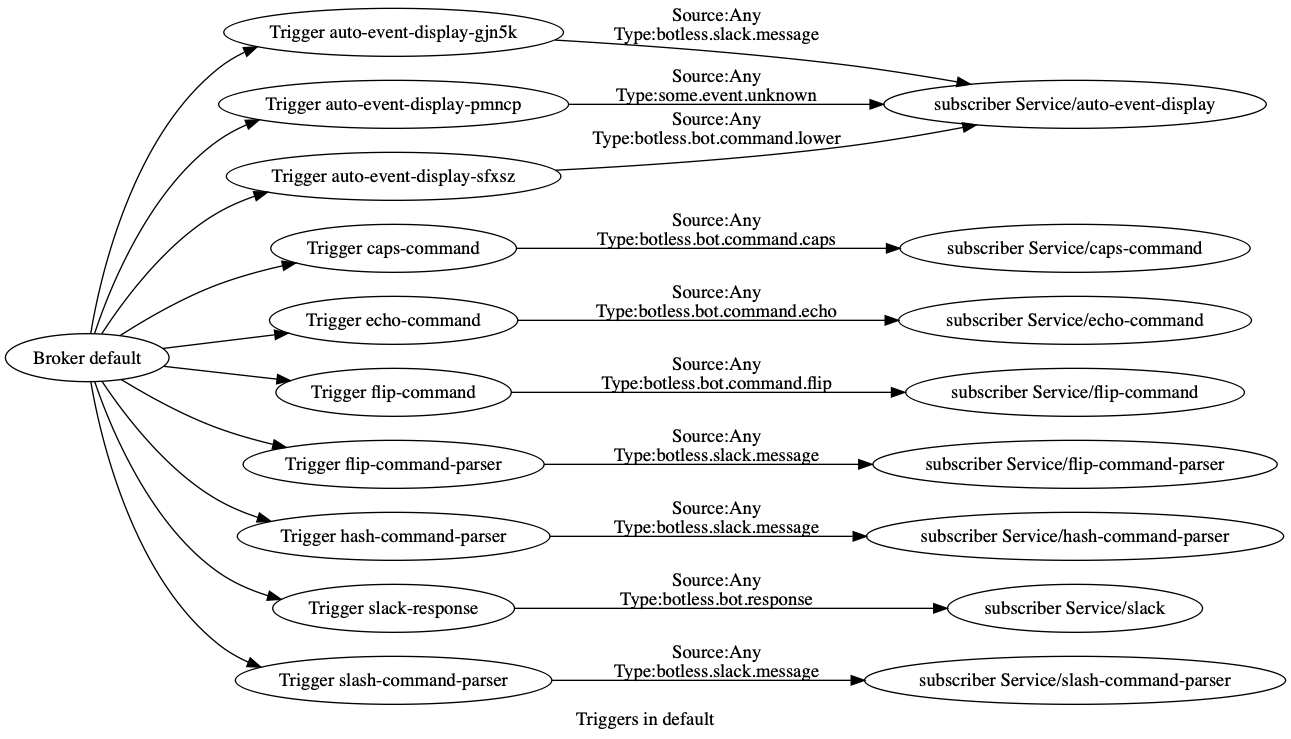
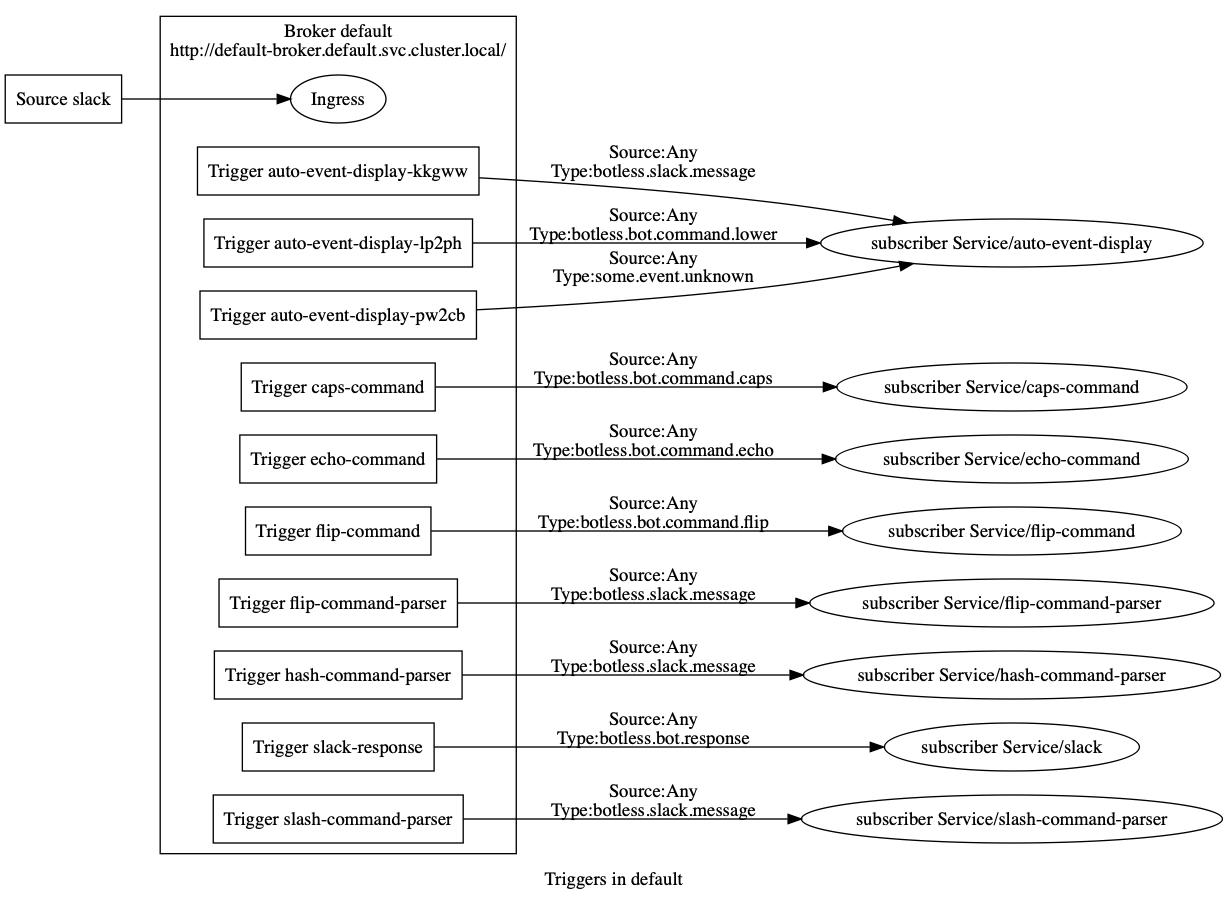
interesting demo so far.

diff --git a/cmd/dot/graph.go b/cmd/dot/graph.go
@@ -3,13 +3,15 @@ package main
 import (
 	"flag"
 	"fmt"
+	eventingv1alpha1 "github.com/knative/eventing/pkg/apis/eventing/v1alpha1"
+	duckv1alpha1 "github.com/n3wscott/knap/pkg/apis/duck/v1alpha1"
 	"github.com/n3wscott/knap/pkg/config"
 	"github.com/n3wscott/knap/pkg/eventing"
 	"github.com/tmc/dot"
+	"k8s.io/apimachinery/pkg/runtime/schema"
 	"k8s.io/client-go/dynamic"
-	"strings"
-
 	"log"
+	"strings"
 
 	// Uncomment the following line to load the gcp plugin (only required to authenticate against GKE clusters).
 	_ "k8s.io/client-go/plugin/pkg/client/auth/gcp"
@@ -33,31 +35,96 @@ func main() {
 	c := eventing.New(dynamicClient)
 
 	g := dot.NewGraph("G")
+	_ = g.Set("shape", "box")
 	_ = g.Set("label", "Triggers in "+ns)
-
-	g.Set("rankdir", "LR")
+	_ = g.Set("rankdir", "LR")
 
 	nodes := make(map[string]*dot.Node)
 
+	subgraphs := make(map[string]*dot.SubGraph)
+
+	dnsToKey := make(map[string]string) // maps domain name to node key
+
+	// load the brokers
+	for _, broker := range c.Brokers(ns) {
+		key := brokerKey(broker.Name)
+		dns := brokerDNS(broker)
+		bn := dot.NewNode("Broker " + dns)
+		bn.Set("shape", "oval")
+		_ = bn.Set("label", "Ingress")
+
+		//bn.Set("style", "invis")
+		//g.AddNode(bn)
+
+		nodes[key] = bn
+		dnsToKey[dns] = key
+
+		bg := dot.NewSubgraph(fmt.Sprintf("cluster_%d", len(subgraphs)))
+		_ = bg.Set("label", fmt.Sprintf("Broker %s\n%s", broker.Name, dns))
+		subgraphs[key] = bg
+		bg.AddNode(bn)
+		g.AddSubgraph(bg)
+	}
+
+	// load the sources
+	for _, source := range c.Sources(ns) {
+		key := gvkKey(source.GroupVersionKind(), source.Name)
+		sn := dot.NewNode("Source " + source.Name)
+		_ = sn.Set("shape", "box")
+		g.AddNode(sn)
+		nodes[key] = sn
+
+		sink := sinkDNS(source)
+
+		if sink != "" {
+			var bn *dot.Node
+			var bk string
+			var ok bool
+			if bk, ok = dnsToKey[sink]; !ok {
+				// TODO: unknown sink.
+				bn = dot.NewNode("UnknownSink " + sink)
+				g.AddNode(bn)
+			} else {
+				if bn, ok = nodes[bk]; !ok {
+					// TODO: unknown broker.
+					bn = dot.NewNode("UnknownSink " + sink)
+					g.AddNode(bn)
+				}
+			}
+
+			e := dot.NewEdge(sn, bn)
+			if sg, ok := subgraphs[bk]; ok {
+				// This is not working.
+				_ = e.Set("lhead", sg.Name())
+			}
+			g.AddEdge(e)
+		}
+	}
+
+	// load the triggers
 	for _, trigger := range c.Triggers(ns) {
-
 		broker := trigger.Spec.Broker
-
-		var bn *dot.Node
-		var ok bool
-		if bn, ok = nodes[brokerKey(broker)]; !ok {
-			bn = dot.NewNode("Broker " + broker)
+		bk := brokerKey(broker)
+		bn, ok := nodes[bk]
+		if !ok {
+			bn = dot.NewNode("UnknownBroker " + broker)
 			g.AddNode(bn)
-			nodes[brokerKey(broker)] = bn
+			nodes[bk] = bn
 		}
 
 		tn := dot.NewNode("Trigger " + trigger.Name)
-		g.AddNode(tn)
+		tn.Set("shape", "box")
+
+		if sg, ok := subgraphs[bk]; ok {
+			sg.AddNode(tn)
+		} else {
+			g.AddNode(tn)
+		}
 		nodes[triggerKey(trigger.Name)] = tn
 
-		e := dot.NewEdge(bn, tn)
+		//e := dot.NewEdge(bn, tn)
 		//_ = e.Set("dir", "none") // "forward" "back" "both" "none"
-		g.AddEdge(e)
+		//g.AddEdge(e)
 
 		label := ""
 		if trigger.Spec.Filter != nil && trigger.Spec.Filter.SourceAndType != nil {
@@ -105,14 +172,24 @@ func main() {
 	fmt.Print(g.String())
 }
 
-/*
+func sinkDNS(source duckv1alpha1.SourceType) string {
+	if source.Status.SinkURI != nil {
+		return fmt.Sprintf("%s/", *(source.Status.SinkURI))
+	}
+	return ""
+}
 
-   ref:
-     apiVersion: serving.knative.dev/v1alpha1
-     kind: Service
-     name: slash-command-parser
+func brokerDNS(broker eventingv1alpha1.Broker) string {
+	return fmt.Sprintf("http://%s/", broker.Status.Address.Hostname)
+}
 
-*/
+func brokerKey(name string) string {
+	return eventingKey("broker", name)
+}
+
+func gvkKey(gvk schema.GroupVersionKind, name string) string {
+	return strings.ToLower(fmt.Sprintf("%s/%s/%s/%s", gvk.Group, gvk.Version, gvk.Kind, name))
+}
 
 func key(group, version, kind, name string) string {
 	return strings.ToLower(fmt.Sprintf("%s/%s/%s/%s", group, version, kind, name))
@@ -132,8 +209,4 @@ func eventingKey(kind, name string) string {
 
 func triggerKey(name string) string {
 	return eventingKey("trigger", name)
-}
-
-func brokerKey(name string) string {
-	return eventingKey("broker", name)
 }

diff --git a/pkg/apis/duck/v1alpha1/zz_generated.deepcopy.go b/pkg/apis/duck/v1alpha1/zz_generated.deepcopy.go
@@ -1,0 +1,73 @@
+// +build !ignore_autogenerated
+
+/*
+Copyright The Kubernetes Authors.
+
+Licensed under the Apache License, Version 2.0 (the "License");
+you may not use this file except in compliance with the License.
+You may obtain a copy of the License at
+
+    http://www.apache.org/licenses/LICENSE-2.0
+
+Unless required by applicable law or agreed to in writing, software
+distributed under the License is distributed on an "AS IS" BASIS,
+WITHOUT WARRANTIES OR CONDITIONS OF ANY KIND, either express or implied.
+See the License for the specific language governing permissions and
+limitations under the License.
+*/
+
+// Code generated by deepcopy-gen. DO NOT EDIT.
+
+package v1alpha1
+
+import (
+	runtime "k8s.io/apimachinery/pkg/runtime"
+)
+
+// DeepCopyInto is an autogenerated deepcopy function, copying the receiver, writing into out. in must be non-nil.
+func (in *SourceStatus) DeepCopyInto(out *SourceStatus) {
+	*out = *in
+	if in.SinkURI != nil {
+		in, out := &in.SinkURI, &out.SinkURI
+		*out = new(string)
+		**out = **in
+	}
+	return
+}
+
+// DeepCopy is an autogenerated deepcopy function, copying the receiver, creating a new SourceStatus.
+func (in *SourceStatus) DeepCopy() *SourceStatus {
+	if in == nil {
+		return nil
+	}
+	out := new(SourceStatus)
+	in.DeepCopyInto(out)
+	return out
+}
+
+// DeepCopyInto is an autogenerated deepcopy function, copying the receiver, writing into out. in must be non-nil.
+func (in *SourceType) DeepCopyInto(out *SourceType) {
+	*out = *in
+	out.TypeMeta = in.TypeMeta
+	in.ObjectMeta.DeepCopyInto(&out.ObjectMeta)
+	in.Status.DeepCopyInto(&out.Status)
+	return
+}
+
+// DeepCopy is an autogenerated deepcopy function, copying the receiver, creating a new SourceType.
+func (in *SourceType) DeepCopy() *SourceType {
+	if in == nil {
+		return nil
+	}
+	out := new(SourceType)
+	in.DeepCopyInto(out)
+	return out
+}
+
+// DeepCopyObject is an autogenerated deepcopy function, copying the receiver, creating a new runtime.Object.
+func (in *SourceType) DeepCopyObject() runtime.Object {
+	if c := in.DeepCopy(); c != nil {
+		return c
+	}
+	return nil
+}

diff --git a/pkg/eventing/eventing.go b/pkg/eventing/eventing.go
@@ -9,7 +9,7 @@ import (
 	"k8s.io/apimachinery/pkg/runtime/schema"
 	"k8s.io/client-go/dynamic"
 
-	apiextensions "k8s.io/apiextensions-apiserver/pkg/apis/apiextensions"
+	"k8s.io/apiextensions-apiserver/pkg/apis/apiextensions"
 
 	eventingv1alpha1 "github.com/knative/eventing/pkg/apis/eventing/v1alpha1"
 	duckv1alpha1 "github.com/n3wscott/knap/pkg/apis/duck/v1alpha1"
@@ -72,27 +72,30 @@ func crdsToGVR(crds []apiextensions.CustomResourceDefinition) []schema.GroupVers
 	return gvrs
 }
 
-func (c *Client) Sources(namespace string) []duckv1alpha1.Source {
+func (c *Client) Sources(namespace string) []duckv1alpha1.SourceType {
 
 	gvrs := crdsToGVR(c.SourceCRDs())
 
+	all := make([]duckv1alpha1.SourceType, 0)
+
 	for _, gvr := range gvrs {
 
-		like := duckv1alpha1.Source{}
+		like := duckv1alpha1.SourceType{}
 
 		list, err := c.dc.Resource(gvr).Namespace(namespace).List(metav1.ListOptions{})
 		if err != nil {
-			log.Fatalf("Failed to List Triggers, %v", err)
+			log.Printf("Failed to List %s, %v", gvr.String(), err)
+			continue
 		}
 
-		all := make([]duckv1alpha1.Source, len(list.Items))
-
-		for i, item := range list.Items {
+		for _, item := range list.Items {
 			obj := like.DeepCopy()
 			if err = runtime.DefaultUnstructuredConverter.FromUnstructured(item.Object, obj); err != nil {
-				log.Fatalf("Error DefaultUnstructuree.Dynamiconverter. %v", err)
+				log.Fatalf("Error DefaultUnstructuredConverter.FromUnstructured. %v", err)
 			}
-			all[i] = *obj
+			obj.ResourceVersion = gvr.Version
+			obj.APIVersion = gvr.GroupVersion().String()
+			all = append(all, *obj)
 		}
 	}
 	return all

diff --git a/cmd/dot/main.go b/cmd/dot/main.go
@@ -66,7 +66,7 @@ func main() {
 		}
 	}
 
-	for _, t := range c.SourceCRDs() {
+	for _, t := range c.Sources("default") {
 		if len(t.ObjectMeta.OwnerReferences) > 0 {
 			for _, o := range t.ObjectMeta.OwnerReferences {
 				log.Printf("%s %s - owned by %s %s %s", t.Kind, t.Name, o.Name, o.Kind, o.APIVersion)
@@ -85,8 +85,8 @@ func main() {
 				plural: containersources
 				singular: containersource
 			*/
-
-			log.Printf("%s %s (%s) %s", t.Spec.Group, t.Spec.Names.Kind, t.Spec.Names.Plural, t.Spec.Version)
+			//log.Printf("Source : %s %s %s", t.APIVersion, t.Kind, t.Name)
+			log.Printf("%s %s %s", t.Name, t.GroupVersionKind().String(), *t.Status.SinkURI)
 		}
 	}
 }

diff --git a/pkg/apis/duck/v1alpha1/source.go b/pkg/apis/duck/v1alpha1/source.go
@@ -7,7 +7,7 @@ import (
 // +genclient
 // +k8s:deepcopy-gen:interfaces=k8s.io/apimachinery/pkg/runtime.Object
 
-type Source struct {
+type SourceType struct {
 	metav1.TypeMeta   `json:",inline"`
 	metav1.ObjectMeta `json:"metadata,omitempty"`
 

diff --git a/pkg/apis/duck/v1alpha1/doc.go b/pkg/apis/duck/v1alpha1/doc.go
@@ -1,0 +1,4 @@
+// Package v1alpha1 is the v1alpha1 version of the API.
+// +k8s:deepcopy-gen=package
+// +groupName=duck.knative.dev
+package v1alpha1
